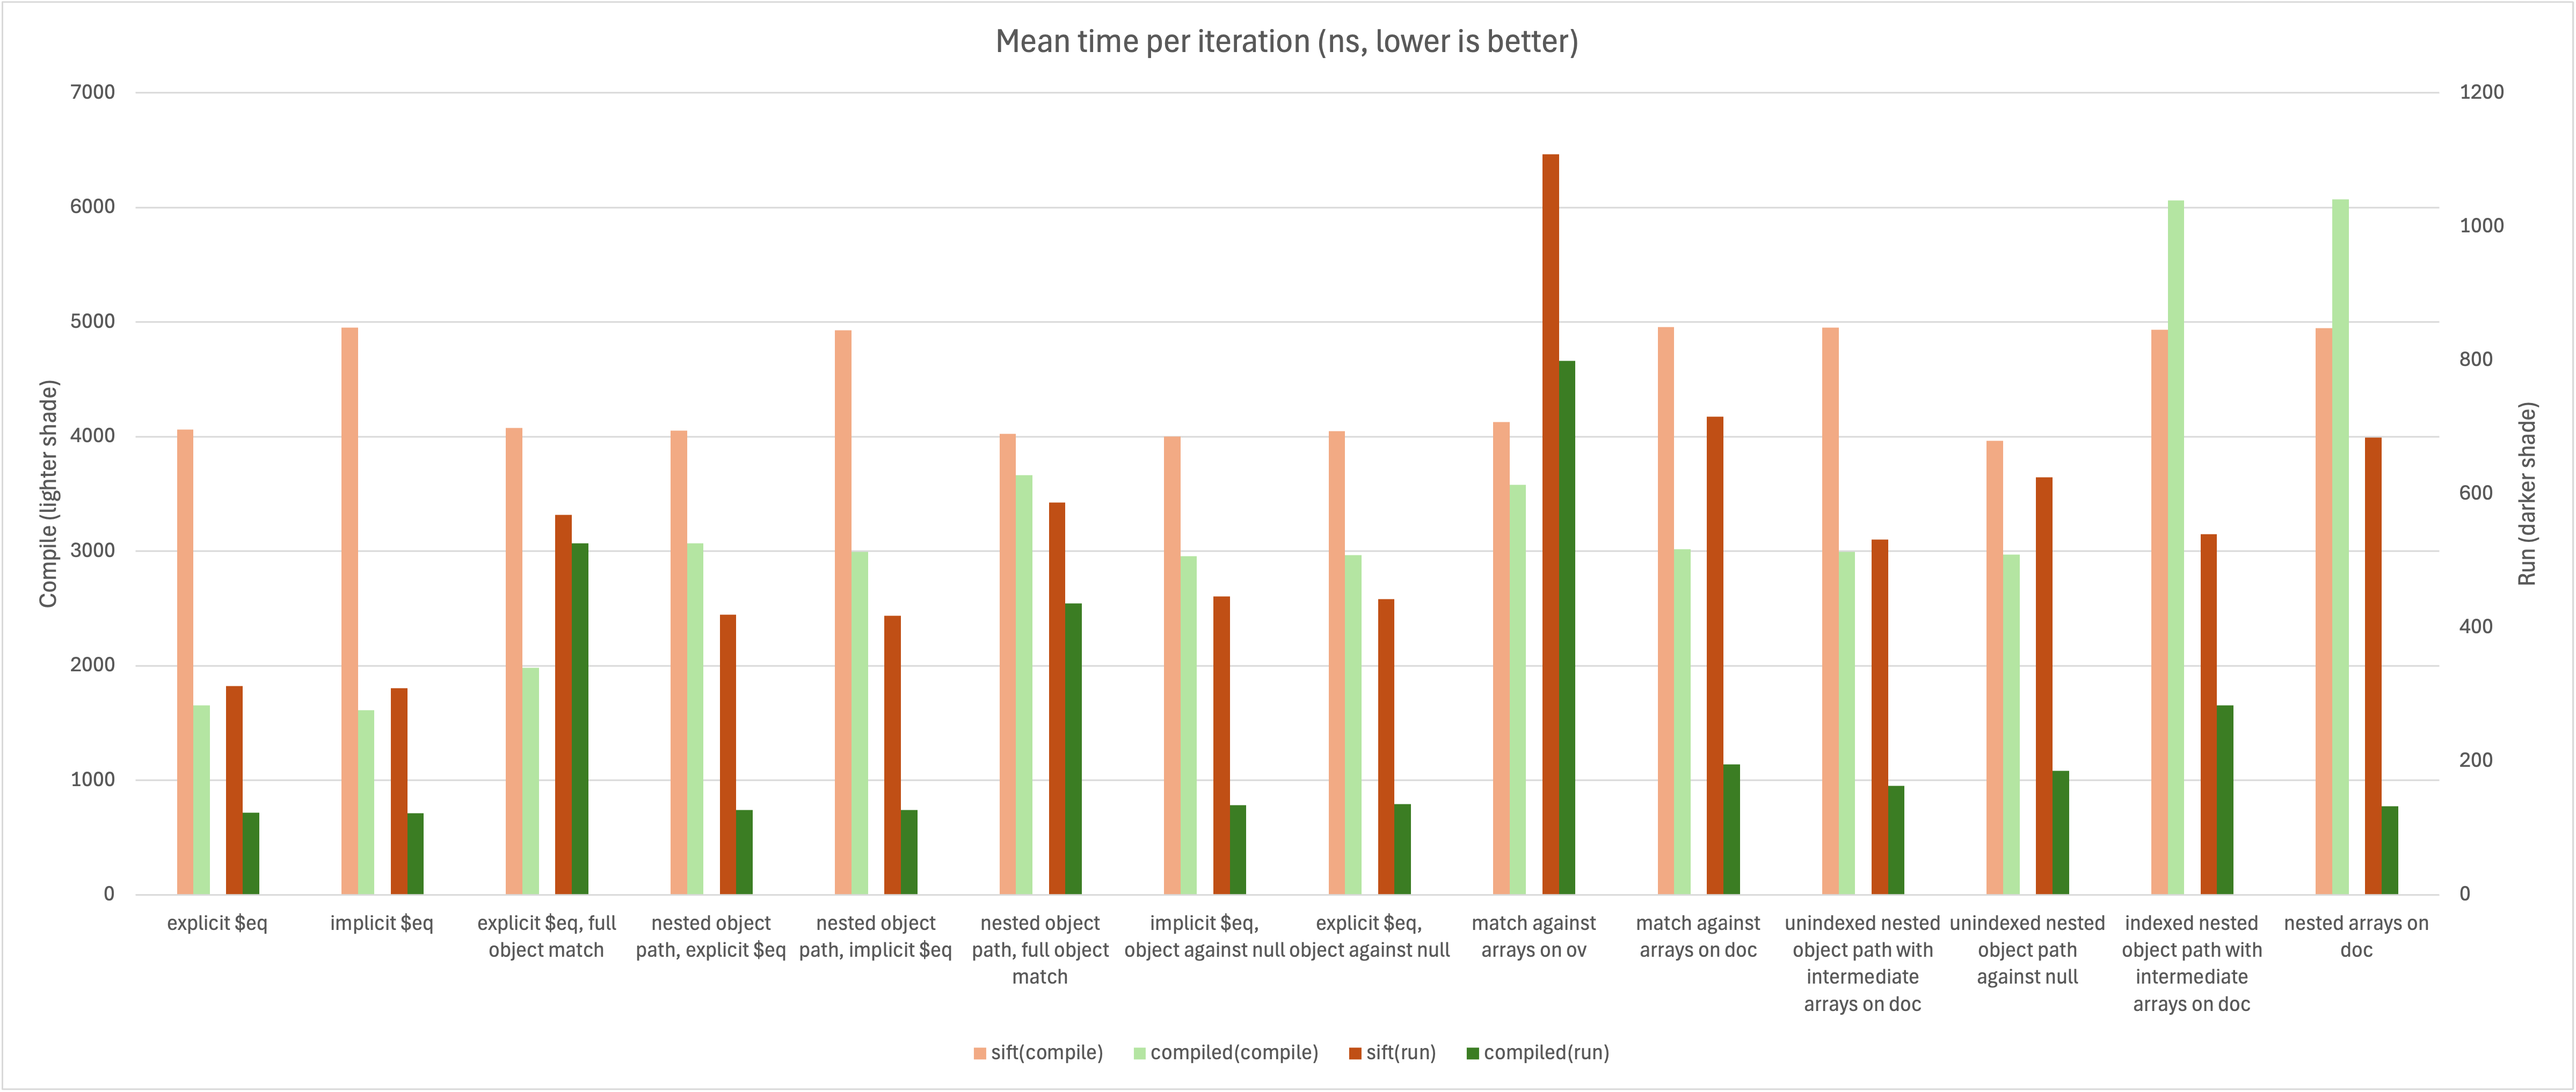
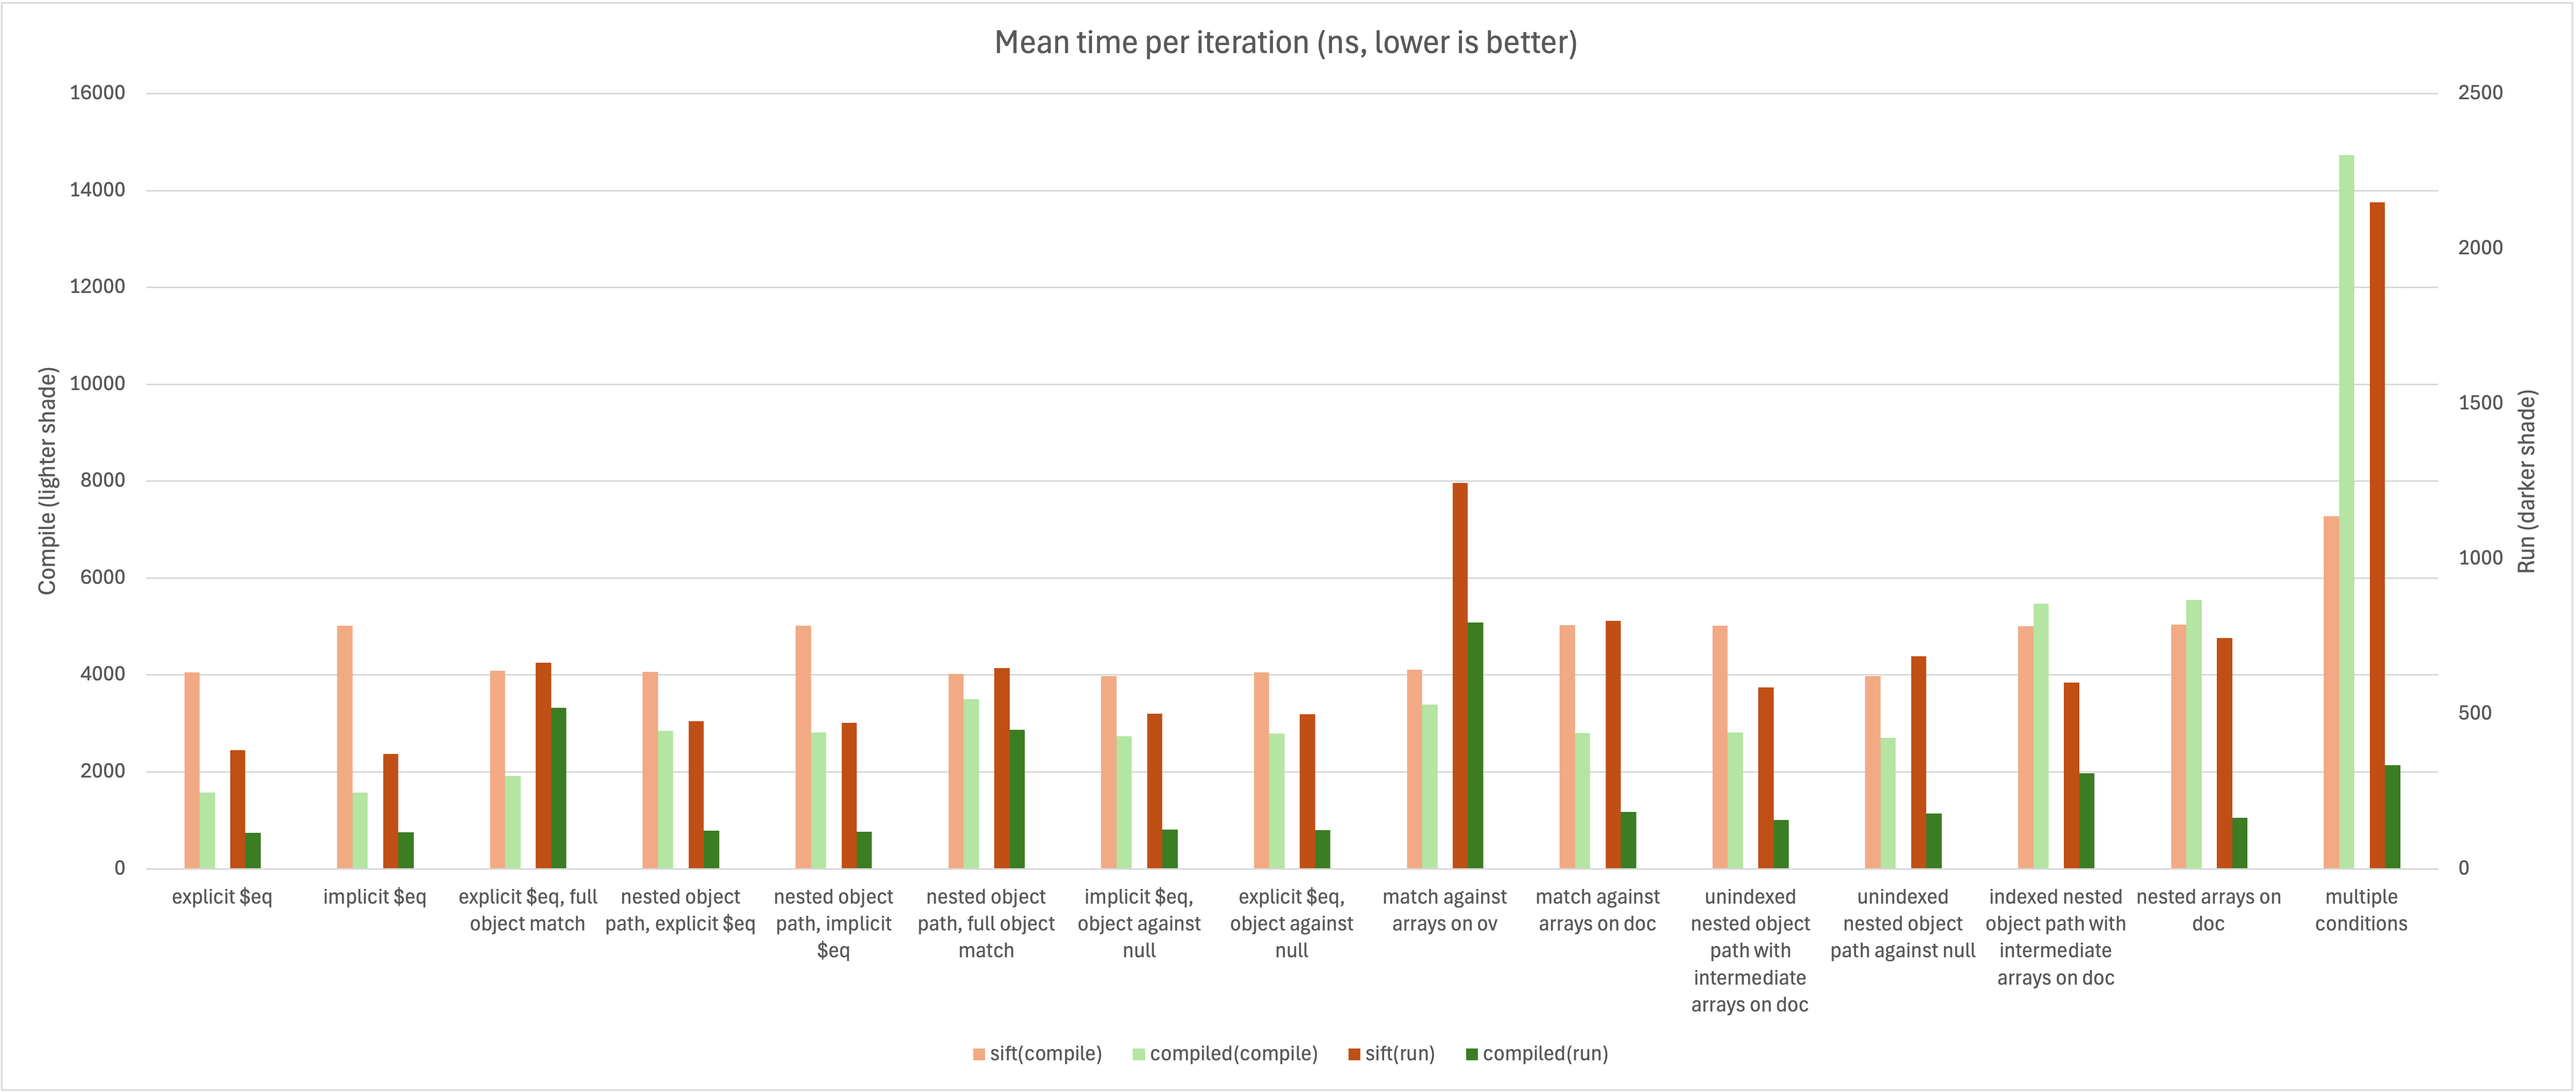
test: multiple operations
as expected, shows a distinct tradeoff between compilation and runtime performance

diff --git a/test/ops.test.ts b/test/ops.test.ts
@@ -210,6 +210,23 @@ describe("$and", async () => {
 			input: [{ foo: "bar", qux: "baz" }, { foo: "bar" }, {}, { foo: "baz" }],
 			expected: [{ foo: "bar", qux: "baz" }],
 		},
+		{
+			name: "multiple conditions",
+			query: {
+				"foo.bar.baz": "qux",
+				"foo.bar.qux": "baz",
+				"foo.bar.bla": "jaz",
+			},
+			input: [
+				{ foo: [{ bar: [{ baz: "qux" }, { qux: "baz" }, { bla: "jaz" }] }] },
+				{},
+				{ foo: "bar" },
+				{ foo: [{ bar: "baz" }] },
+			],
+			expected: [
+				{ foo: [{ bar: [{ baz: "qux" }, { qux: "baz" }, { bla: "jaz" }] }] },
+			],
+		},
 	];
 
 	runTestCases(testCases);

diff --git a/benchmark/run.ts b/benchmark/run.ts
@@ -172,6 +172,16 @@ const cases: BenchCase[] = [
 			{ foo: [{ bar: "baz" }] },
 		],
 	},
+	{
+		name: "multiple conditions",
+		query: { "foo.bar.baz": "qux", "foo.bar.qux": "baz", "foo.bar.bla": "jaz" },
+		input: [
+			{ foo: [{ bar: [{ baz: "qux" }, { qux: "baz" }, { bla: "jaz" }] }] },
+			{},
+			{ foo: "bar" },
+			{ foo: [{ bar: "baz" }] },
+		],
+	},
 ];
 
 warmupBench(cases);
